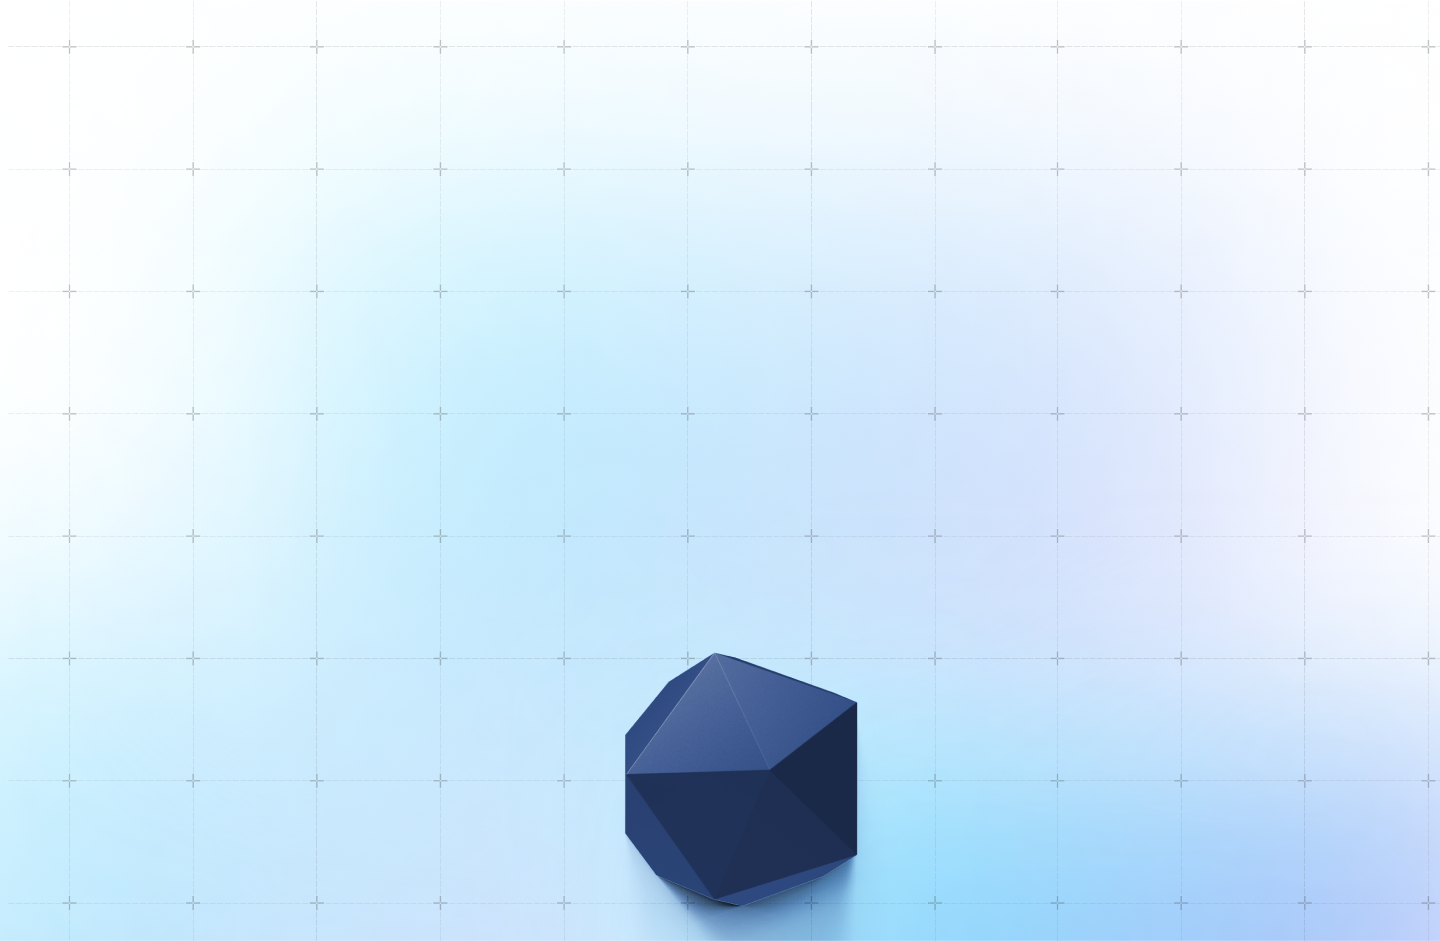
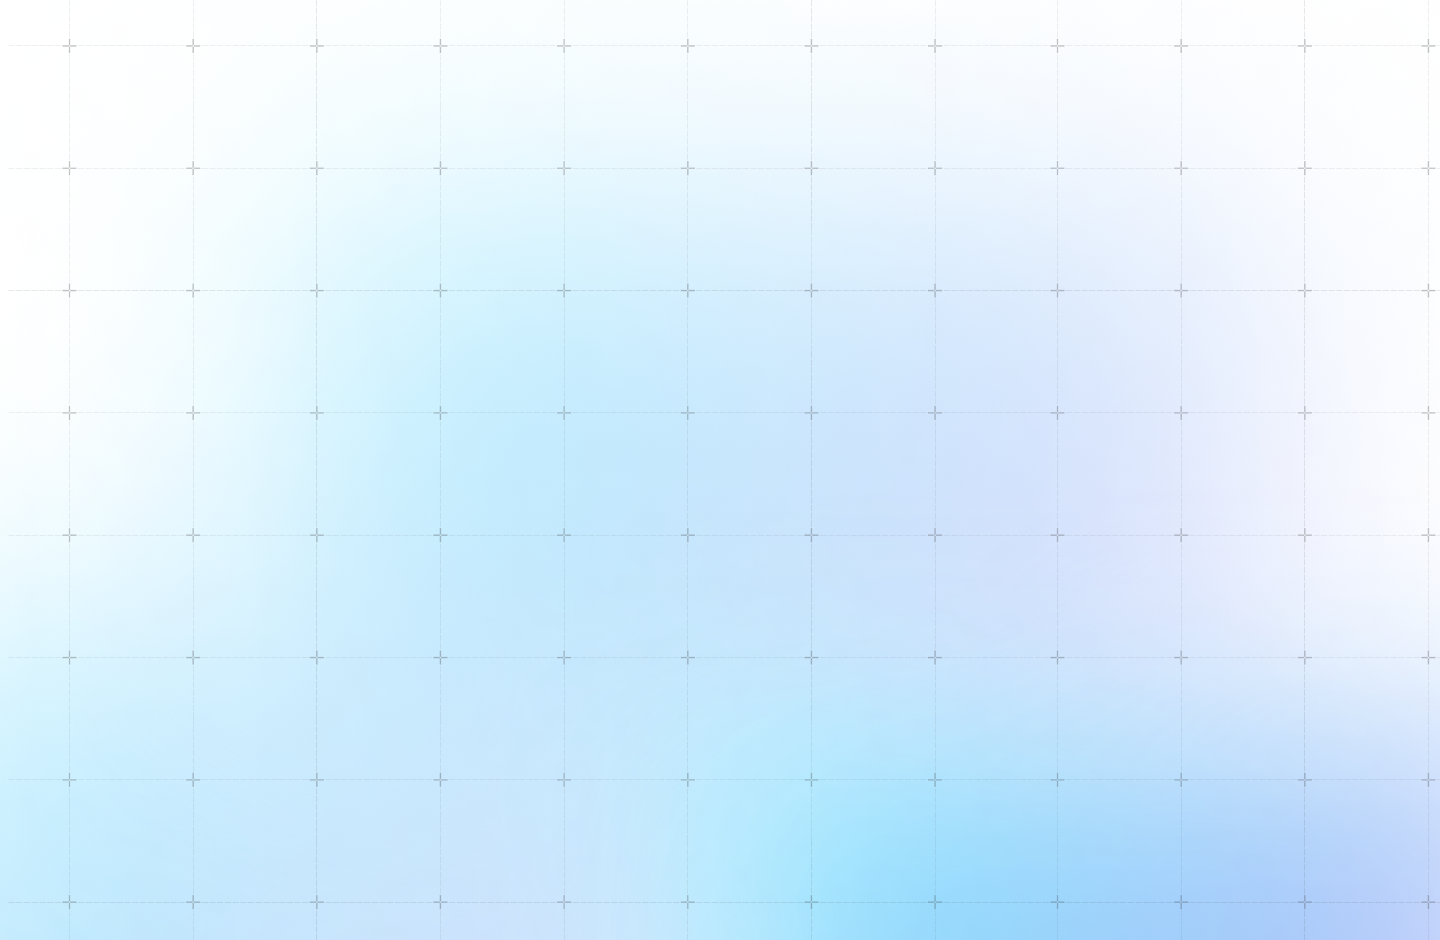
fixed issues

Changed region(s): [[0.4062, 0.6787, 0.5938, 1.0]]

diff --git a/app/components/v2/Hero.tsx b/app/components/v2/Hero.tsx
@@ -6,6 +6,7 @@ import { motion, AnimatePresence } from "framer-motion";
 import urlFor from "@/utils/urlFor";
 import Link from "next/link";
 import ImageUrl from "@/utils/imageUrl";
+import MouseIcon from "@/app/icons/mouse";
 const shadowClass = "0 8px 16px 0 rgba(0,0,0,0.2)"
 
 
@@ -134,13 +135,13 @@ function VideoPlayer() {
 
     return (
         <div className="flex h-[500px] items-center justify-center relative">
-            <video ref={videoRef} muted src="/hero.mp4" className="w-full absolute rounded-[32px] h-full top-0 left-0 right-0 object-cover" />
-            <button onClick={play} style={{ boxShadow: shadowClass }} className="h-[96px] z-10 bg-white rounded-full w-[96px] flex items-center justify-center">
+            <video  id="hero-video" ref={videoRef} autoPlay loop muted src="/hero.mp4" className="w-full absolute rounded-[32px] h-full top-0 left-0 right-0 object-cover" />
+            {/* <button onClick={play} style={{ boxShadow: shadowClass }} className="h-[96px] z-10 bg-white rounded-full w-[96px] flex items-center justify-center">
                 {paused
                     ? <i className="bi bi-play-fill text-[64px]"></i>
                     : <i className="bi bi-pause-fill text-[64px]"></i>
                 }
-            </button>
+            </button> */}
         </div>
     )
 }
@@ -163,7 +164,7 @@ export default function Hero({ partners }: any) {
                             web3 era
                         </h1>
                         <p className="max-w-[500px] my-2 text-base lg:text-xl tracking-normal mx-auto text-center">Explore Our Decentralizing Ecosystem Creating Pathways For Diverse Voices Of the New Economy</p>
-                        <button className="bg-black my-4 px-6 py-[13px] rounded-full font-medium text-white">Get Started</button>
+                        <Link href={"#hero-video"}><button className=""><MouseIcon/></button></Link>
                     </div>
                     <VideoPlayer />
                 </div>

diff --git a/components/Ecosystem.tsx b/components/Ecosystem.tsx
@@ -66,7 +66,7 @@ export default function Ecosystem({ ecosystemSpotlight }: any) {
           </h1>
 
           <div className="">
-            <p className="font-mono my-4 md:my-6 text-[#999999] text-base sm:text-xl">
+            <p className="my-4 md:my-6 text-[#999999] text-base sm:text-xl">
               {ecosystemSpotlight.description}
             </p>
           </div>
@@ -113,7 +113,7 @@ export default function Ecosystem({ ecosystemSpotlight }: any) {
                   </p>
 
                   <div className="space-y-1 md:space-y-3 mt-2 md:mt-16">
-                    <p className="font-mono text-sm md:text-[32px]">
+                    <p className="font-clesmont text-sm md:text-lg">
                       {item.presenterName}
                     </p>
                     <p className="text-[#898989] text-sm">

diff --git a/app/page.tsx b/app/page.tsx
@@ -61,7 +61,7 @@ export default async function Home() {
       <div className="max-w-[804px] mt-16 px-4 md:mt-[170px] font-medium mx-auto lg:min-h-[100px] text-center bg-no-repeat">
         <p className="text-[10px] sm:text-base tracking-[15%] text-[#000001]">{sheHerLive.subtitle}</p>
         <h3 className="text-2xl sm:text-4xl font-black font-clesmont md:text-[56px] md:my-[18px] leading-[68px] text-black">{sheHerLive.title}</h3>
-        <p className="text-xs md:text-xl font-mono md:leading-[30px] text-[#757575]">{sheHerLive.description}</p>
+        <p className="text-xs md:text-xl md:leading-[30px] text-[#757575]">{sheHerLive.description}</p>
       </div>
       <Tabs
         brand={brand}

diff --git a/app/icons/mouse.tsx b/app/icons/mouse.tsx
@@ -1,0 +1,9 @@
+export default function MouseIcon(){
+    return (
+        <svg width="37" height="53" viewBox="0 0 37 53" fill="none" xmlns="http://www.w3.org/2000/svg">
+            <rect x="1.72461" y="1.65332" width="33.7445" height="50.5" rx="16.8722" fill="white" stroke="black" stroke-width="1.5"/>
+            <path d="M19.4023 20.8113V10.1501" stroke="black" stroke-width="1.5" stroke-linecap="round" stroke-linejoin="round"/>
+            <path d="M22.3187 17.4797C22.3187 17.4797 20.1706 20.8114 19.402 20.8114C18.6334 20.8114 16.4854 17.4797 16.4854 17.4797" stroke="black" stroke-width="1.5" stroke-linecap="round" stroke-linejoin="round"/>
+        </svg>
+    )
+}

diff --git a/components/SherCoActive.tsx b/components/SherCoActive.tsx
@@ -48,7 +48,7 @@ export default function SherCoActive({ sherCoActive,isLeaderTab=false }:Props) {
             <h1 className="text-xl font-clesmont sm:text-2xl uppercase md:text-[44px] my-4 text-black font-black">
               {sherCoActive.title}
             </h1>
-            <p className="font-mono text-sm md:text-lg">
+            <p className="text-sm md:text-lg">
               {sherCoActive.description}
             </p>
           </div>

diff --git a/app/globals.css b/app/globals.css
@@ -1,5 +1,9 @@
 @import url('https://fonts.googleapis.com/css2?family=DM+Sans:ital,opsz,wght@0,9..40,100..1000;1,9..40,100..1000&family=IBM+Plex+Mono:ital,wght@0,100;0,200;0,300;0,400;0,500;0,600;0,700;1,100;1,200;1,300;1,400;1,500;1,600;1,700&family=Manrope:wght@200..800&family=Space+Grotesk:wght@300..700&display=swap');
 
+html{
+  scroll-behavior: smooth
+}
+
 @tailwind base;
 @tailwind components;
 @tailwind utilities;
